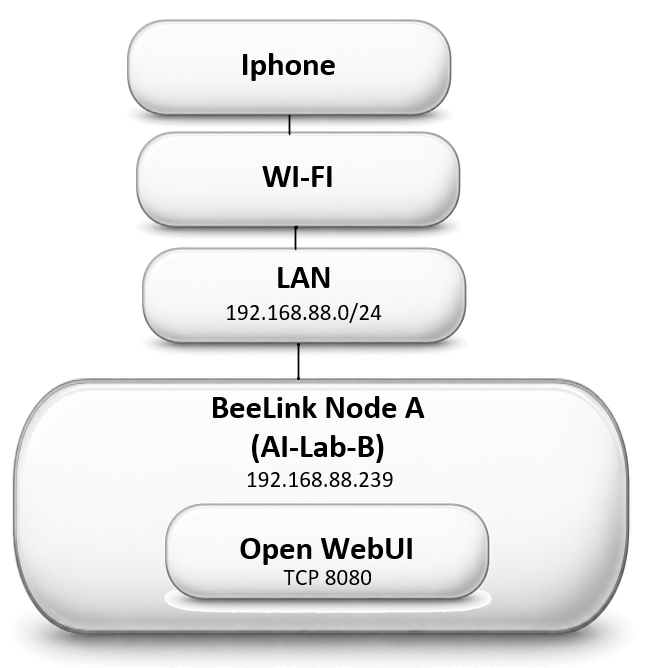
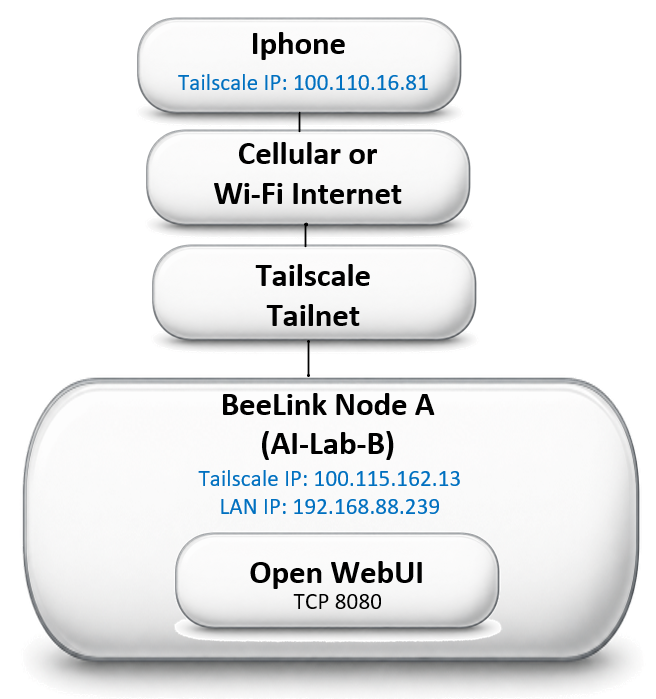
Update Goal diagram and Scope box to reflect the Tailscale mobile access path
The Scope box now describes the actual working path (iPhone -> Tailscale
tailnet -> Node A -> Open WebUI) and access URL, instead of the outdated
LAN-only description. Goal diagram and caption updated to match.

diff --git a/field-guide/mobile-lan-access.html b/field-guide/mobile-lan-access.html
@@ -45,14 +45,19 @@
 
   <div class="lessons">
     <h3>Scope</h3>
-    LAN access: complete. Tailscale remote access, including over cellular data: complete.
+    <p>This page documents the working mobile access path using Tailscale. The iPhone does not connect directly to Node A through its local LAN address. Instead, the iPhone reaches Node A through the Tailscale tailnet, using Node A's Tailscale IP address.</p>
+    <p>Working path:</p>
+    <div class="code-block">iPhone → Cellular or Wi-Fi Internet → Tailscale Tailnet → Node A → Open WebUI</div>
+    <p>Access URL:</p>
+    <div class="code-block">http://100.115.162.13:8080</div>
+    <p>Node A still has LAN IP <code>192.168.88.239</code>, but that address is documented only as its local network address, not the mobile access path.</p>
   </div>
 
   <h2 id="mobile-1" class="chapter">Goal <a class="anchor-link" href="#mobile-1" aria-label="Link to this section">#</a></h2>
-  <p>Allow an iPhone connected to a local Wi-Fi network to use Open WebUI running on Node A.</p>
+  <p>Allow an iPhone — whether on Wi-Fi or cellular data — to use Open WebUI running on Node A.</p>
   <figure class="img-42">
-    <img src="../images/mobile-goal-stack.png" alt="Diagram of iPhone connecting over Wi-Fi to the LAN, reaching BeeLink Node A (AI-Lab-B) at 192.168.88.239, running Open WebUI on TCP 8080">
-    <figcaption>iPhone → Wi-Fi → LAN → Node A → Open WebUI</figcaption>
+    <img src="../images/mobile-goal-stack.png" alt="Diagram of iPhone (Tailscale IP 100.110.16.81) over cellular or Wi-Fi internet, through the Tailscale tailnet, reaching Node A (AI-Lab-B, Tailscale IP 100.115.162.13, LAN IP 192.168.88.239), running Open WebUI on TCP 8080">
+    <figcaption>iPhone → Cellular/Wi-Fi Internet → Tailscale Tailnet → Node A → Open WebUI</figcaption>
   </figure>
 
   <h2 id="mobile-2" class="chapter">Baseline Configuration <a class="anchor-link" href="#mobile-2" aria-label="Link to this section">#</a></h2>
